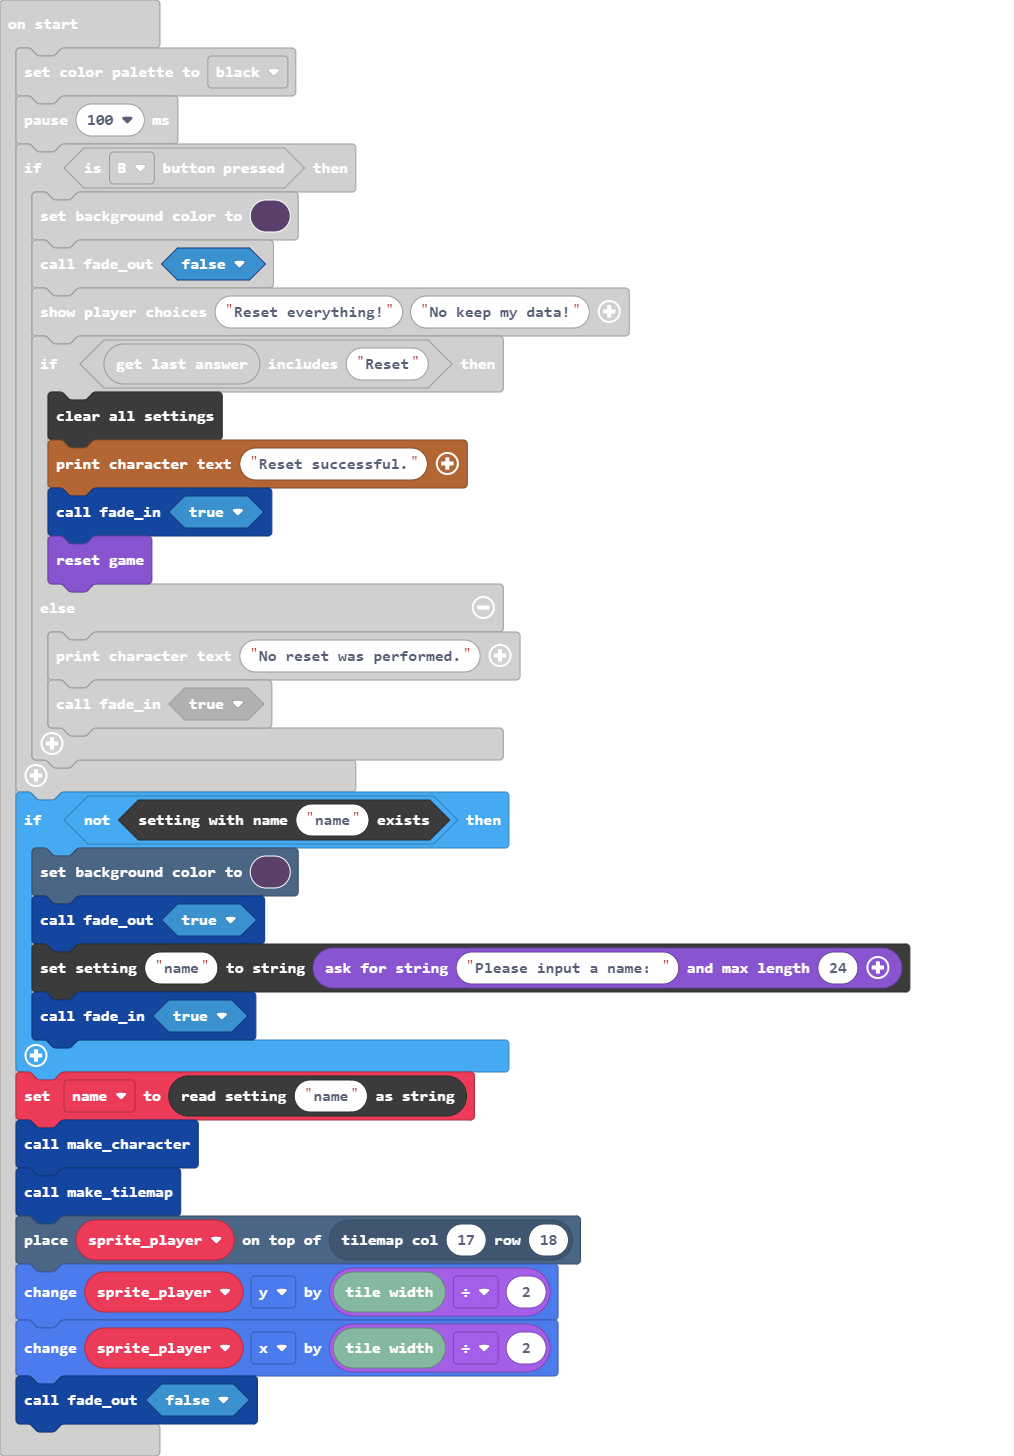
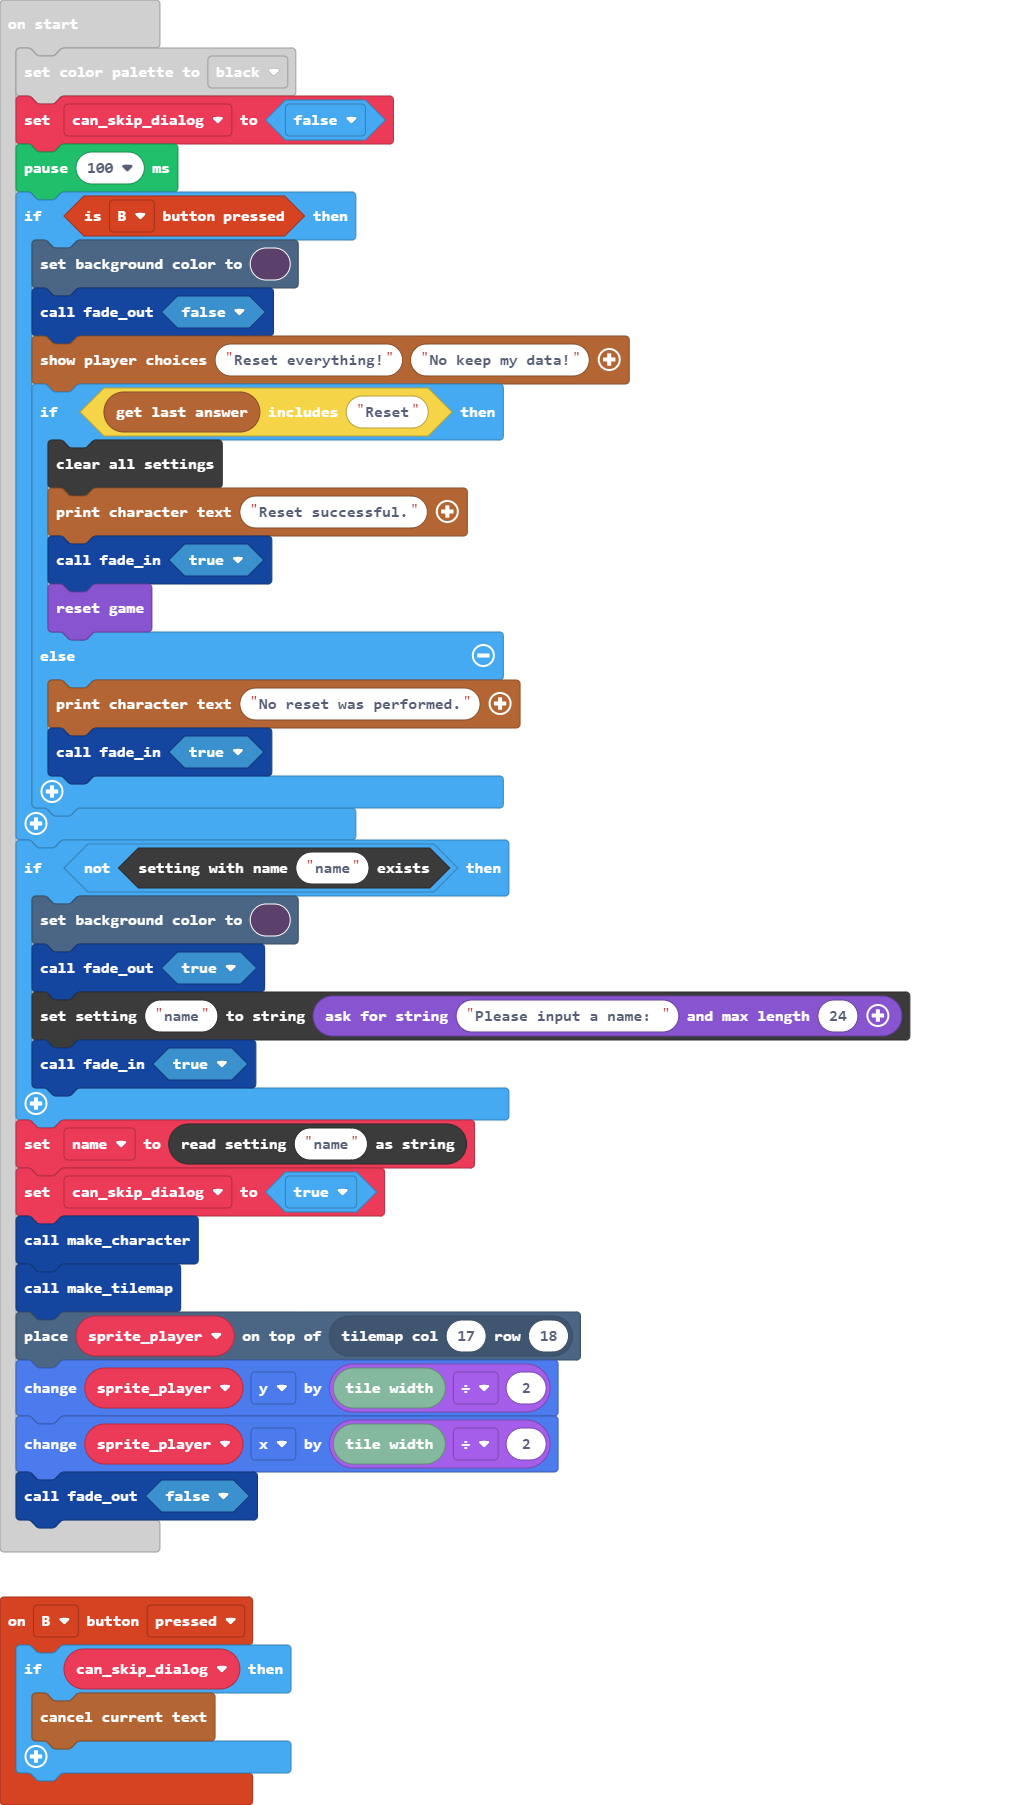
Can skip certain dialogs with B

diff --git a/main.ts b/main.ts
@@ -28,6 +28,11 @@ function get_relative_ground_tile (column: number, row: number) {
     }
     return assets.tile`grass`
 }
+controller.B.onEvent(ControllerButtonEvent.Pressed, function () {
+    if (can_skip_dialog) {
+        story.clearAllText()
+    }
+})
 controller.A.onEvent(ControllerButtonEvent.Pressed, function () {
     if (sprite_player) {
         use_sword()
@@ -207,9 +212,11 @@ function animate_character () {
 }
 let sprite_thing: Sprite = null
 let sprite_player: Sprite = null
+let can_skip_dialog = false
 color.setPalette(
 color.Black
 )
+can_skip_dialog = false
 pause(100)
 if (controller.B.isPressed()) {
     scene.setBackgroundColor(12)
@@ -232,6 +239,7 @@ if (!(blockSettings.exists("name"))) {
     fade_in(true)
 }
 let name = blockSettings.readString("name")
+can_skip_dialog = true
 make_character()
 make_tilemap()
 tiles.placeOnTile(sprite_player, tiles.getTileLocation(17, 18))
